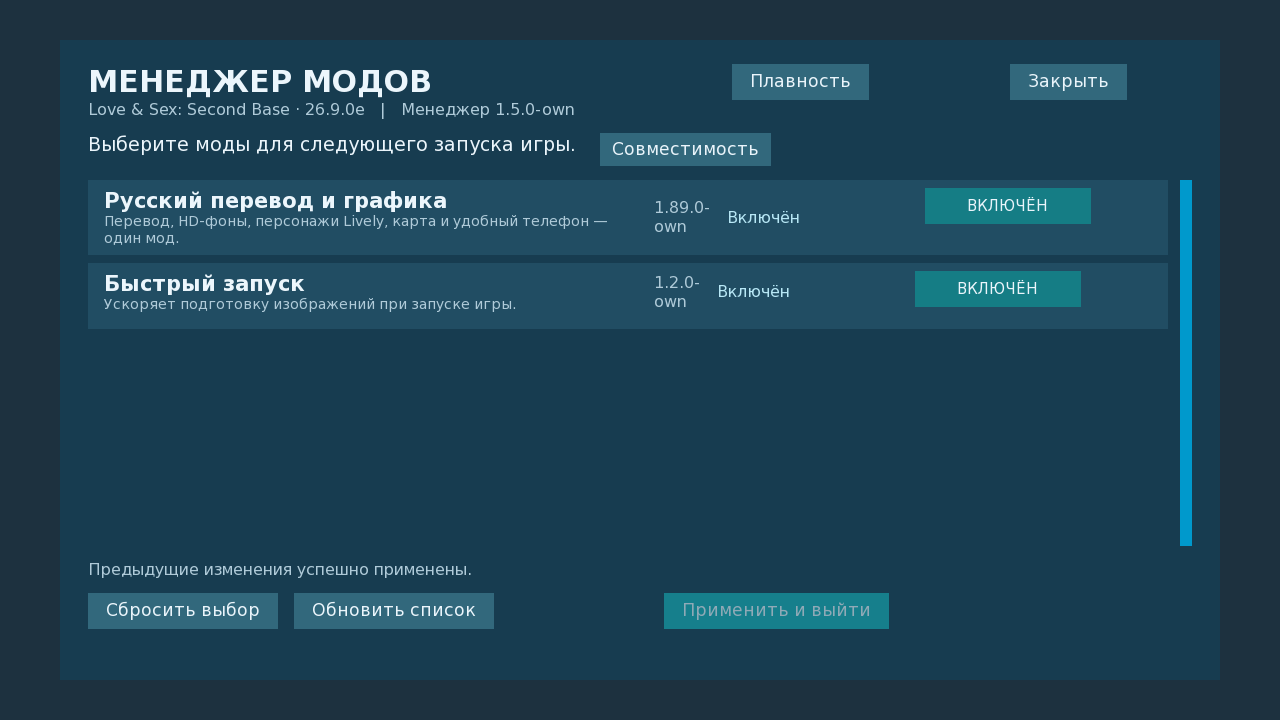
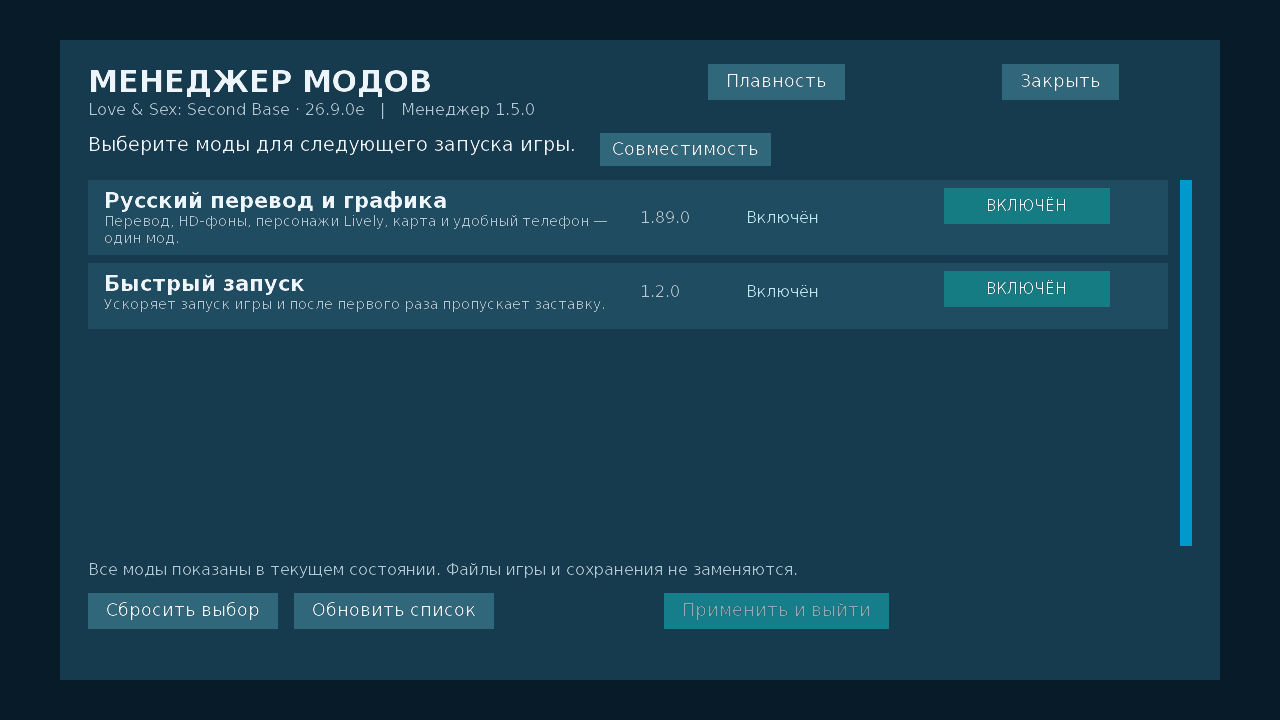
Refresh README screenshots, keep manager versions on one line

diff --git a/tools/make_lively_comparison.py b/tools/make_lively_comparison.py
@@ -1,0 +1,59 @@
+"""Draw docs/images/lively-before-after.png from the installed game and the built mod archive.
+
+The same character layers are composed twice: the game's originals scaled x3 and the mod's
+@2 layers scaled x1.5, both bilinear, as a window three times the game's size would show them.
+Usage: python tools/make_lively_comparison.py <game folder> <localization .rpa>
+"""
+import io, pickle, sys, zlib
+from pathlib import Path
+from PIL import Image, ImageDraw, ImageFont
+
+LAYERS = ["", "_bot_nopreg_palla_casual", "_top_nopreg_palla_casual", "_nohaircut"]
+STEM = "dlc_lively/bg/coffeeshop/npc/palla/bg_coffeeshop_palla"
+OUT = Path(__file__).resolve().parents[1] / "docs/images/lively-before-after.png"
+
+
+class Archive:
+    def __init__(self, path):
+        self.file = open(path, "rb")
+        head = self.file.readline().split()
+        self.key = int(head[2], 16)
+        self.file.seek(int(head[1], 16))
+        self.index = pickle.loads(zlib.decompress(self.file.read()))
+
+    def image(self, name):
+        entry = self.index[name][0]
+        self.file.seek(entry[0] ^ self.key)
+        prefix = entry[2] if len(entry) > 2 and isinstance(entry[2], bytes) else b""
+        return Image.open(io.BytesIO(prefix + self.file.read(entry[1] ^ self.key))).convert("RGBA")
+
+
+def compose(archive, suffix):
+    layers = [archive.image(STEM + layer + suffix) for layer in LAYERS]
+    canvas = Image.new("RGBA", layers[0].size)
+    for layer in layers:
+        canvas.alpha_composite(layer)
+    return canvas
+
+
+def main(game, mod):
+    original = compose(Archive(Path(game) / "dlc_lively.rpa"), ".webp")
+    hd = compose(Archive(mod), "@2.webp")
+    assert hd.size == (original.width * 2, original.height * 2), hd.size
+    # Head and shoulders, in 1x game pixels.
+    left, top = original.getbbox()[:2]
+    box = (left + 40, top, left + 200, top + 150)
+    panels = [original.crop(box).resize((480, 450), Image.BILINEAR),
+              hd.crop(tuple(v * 2 for v in box)).resize((480, 450), Image.BILINEAR)]
+    font = ImageFont.truetype("C:/Windows/Fonts/segoeuib.ttf", 26)
+    sheet = Image.new("RGBA", (1000, 520), (214, 220, 226, 255))
+    draw = ImageDraw.Draw(sheet)
+    for x, panel, label in ((14, panels[0], "Оригинал, окно ×3"), (506, panels[1], "С модом: HD-слои")):
+        sheet.alpha_composite(panel, (x, 56))
+        draw.text((x + 240, 30), label, font=font, fill=(24, 44, 56), anchor="mm")
+    sheet.convert("RGB").save(OUT, optimize=True)
+    print(OUT, OUT.stat().st_size)
+
+
+if __name__ == "__main__":
+    main(*sys.argv[1:3])

diff --git a/docs/DEVELOPMENT.md b/docs/DEVELOPMENT.md
@@ -21,7 +21,11 @@
 но старые незавершённые планы не получают разрешения на применение.
 При отключении единого мода восстанавливаются настройки плавности.
 
-[Состав и проверки 1.89.0](../provenance/unified-1.89.0.json).
+[Состав и проверки 1.89.0](../provenance/unified-1.89.0.json) ·
+[Проверки HD](HD_MENU_2026-10-25.md) ·
+[Проверки Lively](LIVELY_HD_1.7.0.md) ·
+[Быстрый запуск](STARTUP_1.2.0.md).
+Картинку сравнения Lively рисует `tools/make_lively_comparison.py`.
 Далее сохранена документация протоколов и предыдущих выпусков с их версиями.
 
 ## Автоматическое распознавание обновлений
